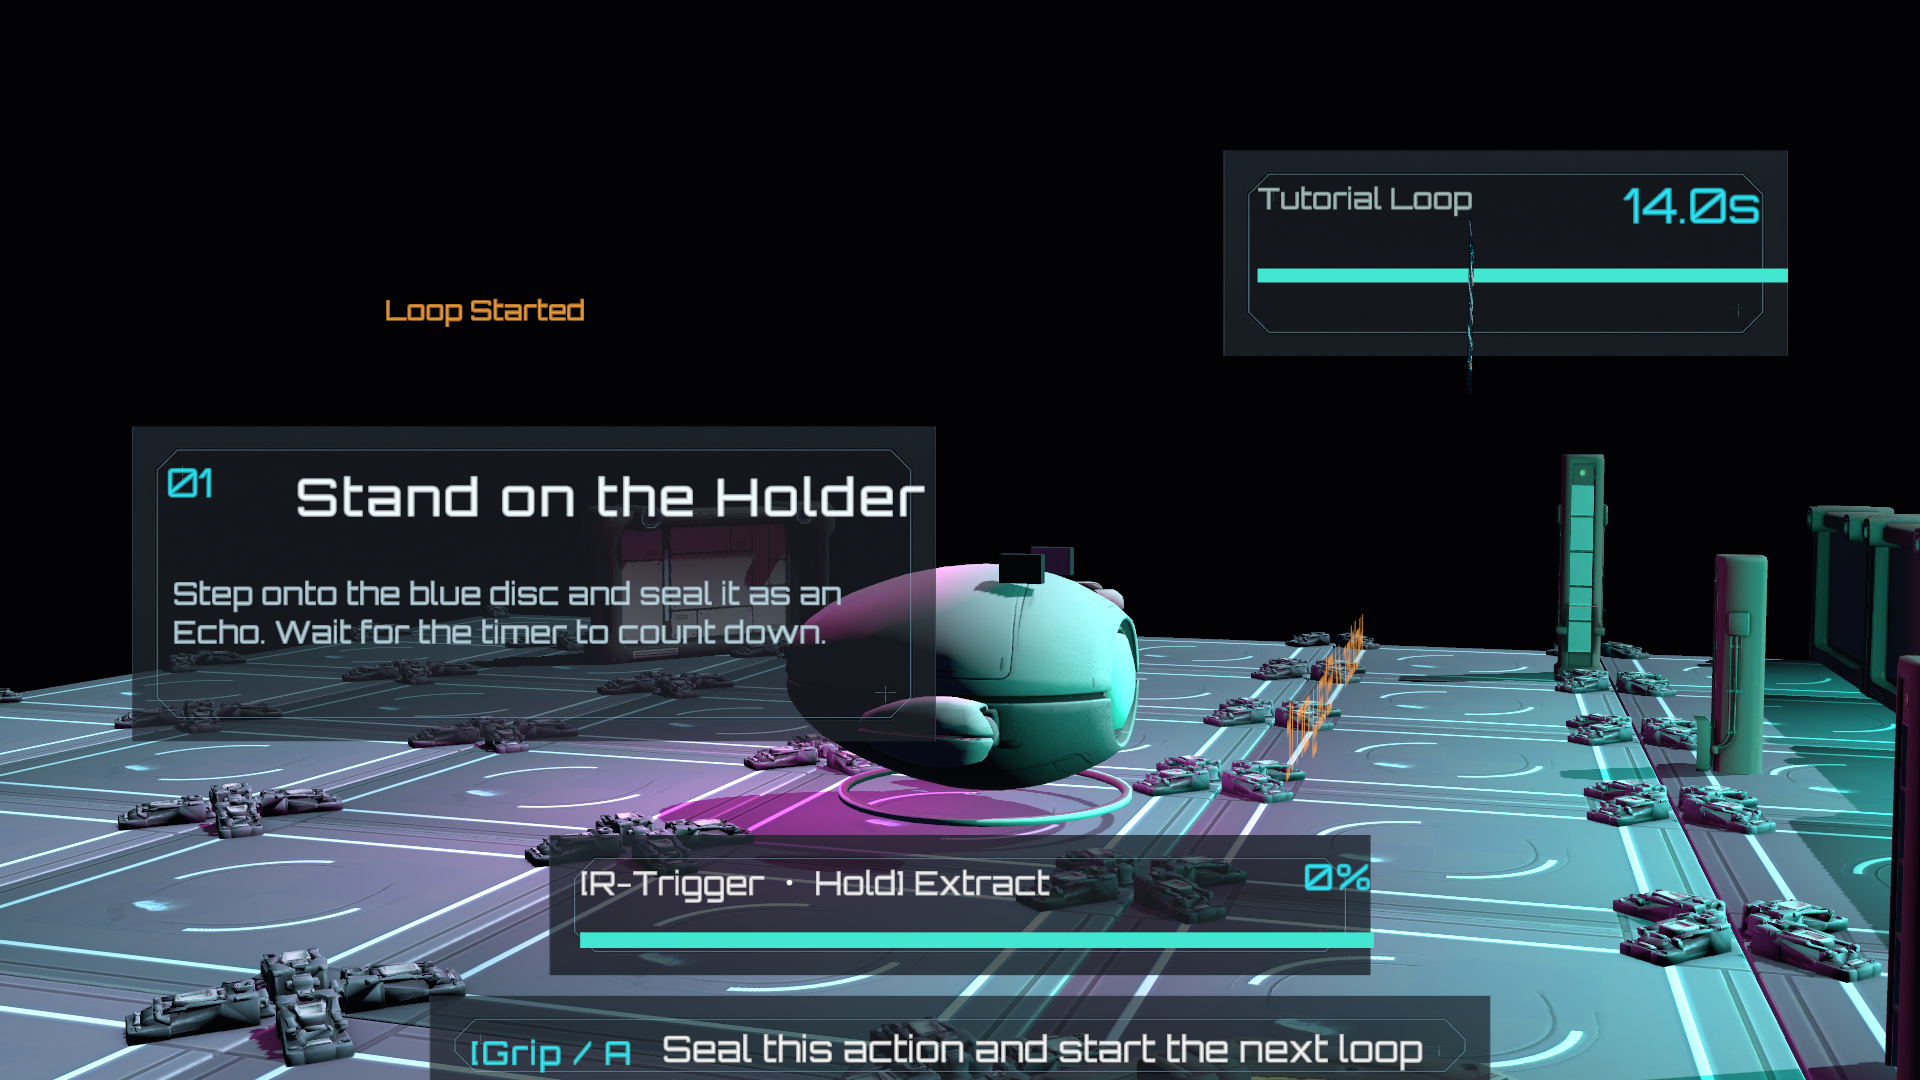
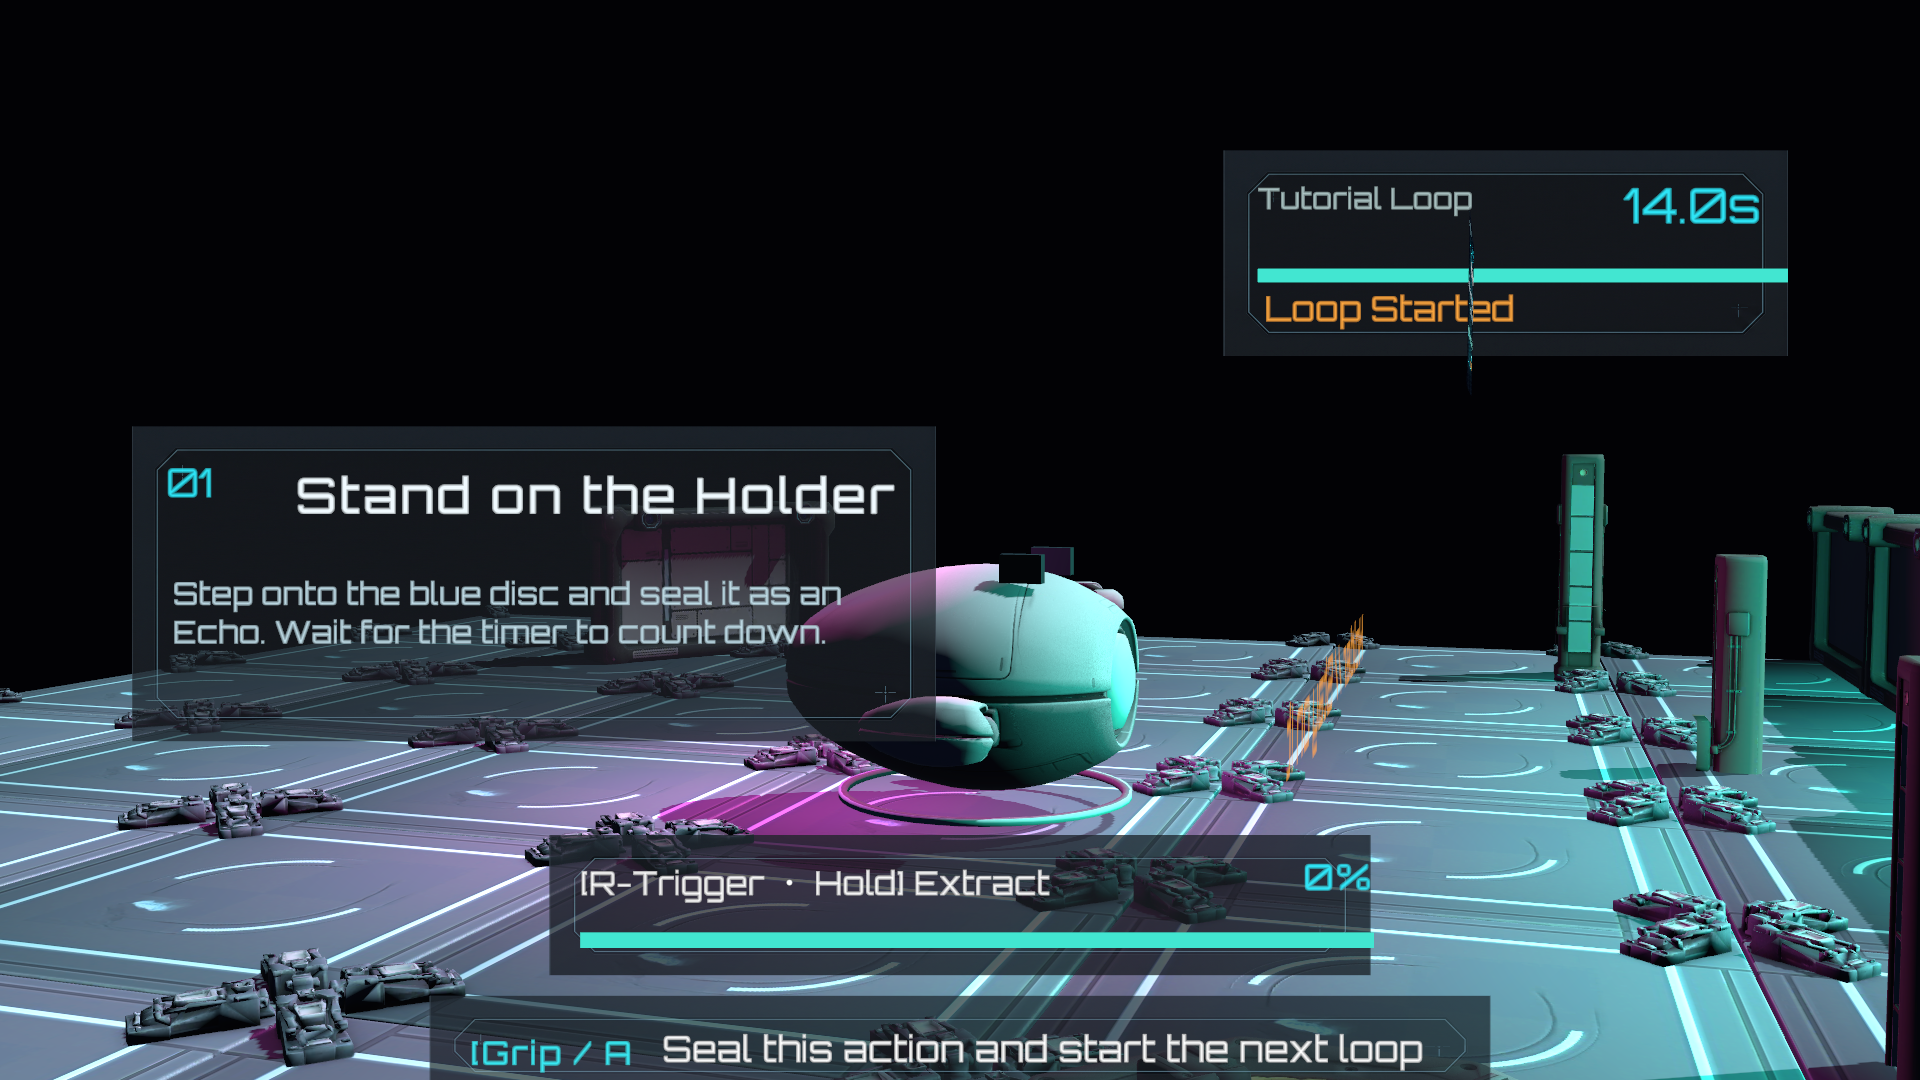
fix(en): v3 HUD 排版 r2 — Toast 挂到计时面板 / 数值 RT 收窄 / 标题 RT 收窄 / 非必要面板隐藏
- Toast: SetParent(timerPanel) + anchor 底部拉伸(0,0)→(1,0)，offsetMin=(24,14)/offsetMax=(-24,42)
  → 高 28px、左右 24px 内边距、距底 14px；字号 20；必须完整落在面板边框内
- timerValueText: 移除旧 margin（上版导致"22.0s"截断），改为 RT sizeDelta.x 减 16px(105→89px)
  + enableAutoSizing(22-28px)；新增 timer_88.png 极限截图验证"88.8s"完整显示
- objectiveTitleText: RT sizeDelta.x 减 20px(370→350)，右边缘 446px，距可视边框 22px
  + 保留 enableAutoSizing(18-30px)；最长标题"Wait for the Train to Dock"均能在 350px 内显示
- "Brand"/"Level Tabs"/"Loop"/"Echo Rail" 在保存场景时显式隐藏（Awake 在 batchmode 不运行）
  → 消除"Echo Rail"细竖线；DIAG-THIN 扫描确认无宽<4px/高>50px 的残余 Graphic
- 全部 QA PASS，截图: hud_collapsed / hud_expanded / gameplay_hud / timer_88

Changed region(s): [[0.1562, 0.4278, 0.5, 0.4889], [0.6562, 0.275, 0.8125, 0.3056], [0.1875, 0.275, 0.3125, 0.3056]]

diff --git a/Assets/QuantumEcho/Scripts/Editor/QuantumEchoV3IncrementalUpgrade.cs b/Assets/QuantumEcho/Scripts/Editor/QuantumEchoV3IncrementalUpgrade.cs
@@ -111,6 +111,7 @@ namespace QuantumEcho.Editor
             CaptureTitleShot(ScreenDir + "/title_pressed.png", idle: false, pressBtn: true);
             CaptureHUDShot(ScreenDir + "/hud_collapsed.png",   expanded: false);
             CaptureHUDShot(ScreenDir + "/hud_expanded.png",    expanded: true);
+            CaptureHUDShot(ScreenDir + "/timer_88.png",         expanded: false, timerValue: 88.8f, timerDuration: 99f);
             CaptureMainShot(ScreenDir + "/gameplay_hud.png");
 
             // ── 步骤 8: 改动后 QA ────────────────────────────────────────────
@@ -249,57 +250,112 @@ namespace QuantumEcho.Editor
             foreach (var lbl in labels) { if (orbitron != null) { lbl.font = orbitron; EditorUtility.SetDirty(lbl); } }
             Debug.Log($"[INC] QuantumHologramWorldLabel：{labels.Count} 个");
 
-            // ── HUD 排版修复（v3 UI 精修：解决溢出 / 叠字）
+            // ── HUD 排版修复（v3 UI 精修 r2：溢出 / 叠字 / 细竖线）
             var allHUDs = GetAllInScene<QuantumHUD>(scene);
             if (allHUDs.Count > 0)
             {
                 var hud = allHUDs[0];
-                // 1. 目标标题：启用自动缩放防止"Stand on the Holder"顶到右边框
+
+                // ── 先找计时面板（用于后面 Toast 挂载）
+                RectTransform timerPanelRT = null;
+                foreach (var root in scene.GetRootGameObjects())
+                    foreach (var tr in root.GetComponentsInChildren<Transform>(true))
+                        if (tr.name == "Timer" && tr.GetComponent<RectTransform>() is RectTransform trt
+                            && Mathf.Approximately(trt.sizeDelta.x, 330f))
+                        { timerPanelRT = trt; break; }
+
+                // ── 计时面板高度：98 → 120，为 Toast 腾出空间（幂等：已经是 120 则跳过）
+                if (timerPanelRT != null && Mathf.Approximately(timerPanelRT.sizeDelta.y, 98f))
+                {
+                    timerPanelRT.sizeDelta = new Vector2(330f, 120f);
+                    EditorUtility.SetDirty(timerPanelRT);
+                }
+
+                // ── Fix 3: 目标标题文本框右边缘内缩 20px，再启用自动缩放
                 if (hud.objectiveTitleText != null)
                 {
+                    var rt = hud.objectiveTitleText.rectTransform;
+                    // 原 sizeDelta.x=370 → 右边缘 466；内缩 20px → 右边缘 446，留 22px 内边距
+                    if (rt.sizeDelta.x > 354f)
+                        rt.sizeDelta = new Vector2(rt.sizeDelta.x - 20f, rt.sizeDelta.y);
                     hud.objectiveTitleText.enableAutoSizing = true;
                     hud.objectiveTitleText.fontSizeMin = 18f;
                     hud.objectiveTitleText.fontSizeMax = 30f;
                     EditorUtility.SetDirty(hud.objectiveTitleText);
+                    EditorUtility.SetDirty(rt);
                 }
-                // 2. 计时数值：右侧补 16px 内边距，"14.0s" 不贴边框
+
+                // ── Fix 2: 计时数值 — 去掉 margin，改为收窄 RectTransform 右边缘 16px，并启用自动缩放
                 if (hud.timerValueText != null)
                 {
-                    hud.timerValueText.margin = new Vector4(0f, 0f, 16f, 0f);
+                    var rt = hud.timerValueText.rectTransform;
+                    hud.timerValueText.margin = Vector4.zero;          // 移除旧 margin（上版误用）
+                    if (rt.sizeDelta.x > 73f)                          // 幂等：不重复缩减
+                        rt.sizeDelta = new Vector2(rt.sizeDelta.x - 16f, rt.sizeDelta.y);  // 105→89
+                    hud.timerValueText.enableAutoSizing = true;
+                    hud.timerValueText.fontSizeMin = 22f;
+                    hud.timerValueText.fontSizeMax = 28f;
                     EditorUtility.SetDirty(hud.timerValueText);
+                    EditorUtility.SetDirty(rt);
                 }
-                // 3. Toast（反馈文字）：移入计时面板内部，24px 左右内边距，字号缩小；默认隐藏
-                if (hud.toastText != null)
+
+                // ── Fix 1: Toast — 挂载到计时面板，锚点底部拉伸，左右 24px / 底部 14px / 高 28px / 字号 20
+                if (hud.toastText != null && timerPanelRT != null
+                    && hud.toastText.transform.parent != timerPanelRT.transform)
                 {
+                    hud.toastText.transform.SetParent(timerPanelRT, false);
                     var toastRT = hud.toastText.rectTransform;
-                    // 新位置：计时面板内，进度条下方；anchoredPosition 相对 canvas 左上角 anchor
-                    toastRT.anchoredPosition = new Vector2(176f, -109f);
-                    toastRT.sizeDelta        = new Vector2(282f, 24f);
-                    hud.toastText.fontSize   = 16f;
-                    hud.toastText.margin     = new Vector4(0f, 0f, 0f, 0f);
-                    hud.toastText.alignment  = TMPro.TextAlignmentOptions.Left;
-                    hud.toastText.gameObject.SetActive(false);   // 默认不可见
+                    toastRT.anchorMin = new Vector2(0f, 0f);
+                    toastRT.anchorMax = new Vector2(1f, 0f);
+                    toastRT.pivot     = new Vector2(0.5f, 0f);
+                    toastRT.offsetMin = new Vector2(24f, 14f);   // 左 24px, 距底 14px
+                    toastRT.offsetMax = new Vector2(-24f, 42f);  // 右 24px, 高度=42-14=28px
+                    hud.toastText.margin    = Vector4.zero;
+                    hud.toastText.fontSize  = 20f;
+                    hud.toastText.alignment = TMPro.TextAlignmentOptions.Left;
+                    hud.toastText.gameObject.SetActive(false);
                     EditorUtility.SetDirty(hud.toastText);
                     EditorUtility.SetDirty(toastRT);
                     EditorUtility.SetDirty(hud.toastText.gameObject);
                 }
-                // 4. 计时面板高度：98 → 120，为 Toast 腾出空间
-                foreach (var root in scene.GetRootGameObjects())
-                    foreach (var tr in root.GetComponentsInChildren<Transform>(true))
-                        if (tr.name == "Timer" && tr.GetComponent<RectTransform>() is RectTransform timerRT
-                            && Mathf.Approximately(timerRT.sizeDelta.x, 330f)
-                            && Mathf.Approximately(timerRT.sizeDelta.y, 98f))
-                        {
-                            timerRT.sizeDelta = new Vector2(330f, 120f);
-                            EditorUtility.SetDirty(timerRT);
-                        }
-                // 5. 结算面板：截图时 Awake() 不运行，需在保存场景前显式隐藏
+                else if (hud.toastText != null)
+                {
+                    // 如已挂载：仅确保字号和默认隐藏状态正确
+                    if (hud.toastText.fontSize < 19f)
+                    { hud.toastText.fontSize = 20f; EditorUtility.SetDirty(hud.toastText); }
+                    if (hud.toastText.gameObject.activeSelf)
+                    { hud.toastText.gameObject.SetActive(false); EditorUtility.SetDirty(hud.toastText.gameObject); }
+                }
+
+                // ── Fix 5: 结算面板（截图时 Awake 不运行）
                 if (hud.resultPanel != null)
                 {
                     hud.resultPanel.SetActive(false);
                     EditorUtility.SetDirty(hud.resultPanel);
                 }
-                Debug.Log("[INC] HUD 排版修复完成（标题自动缩放 / 计时内边距 / Toast 重定位 / 结算面板隐藏）");
+
+                // ── Fix 4: 隐藏 Awake() 才会隐藏的非必要面板（batchmode 不运行 Awake）
+                var awakePanels = new[] { "Brand", "Level Tabs", "Loop", "Echo Rail" };
+                foreach (var root in scene.GetRootGameObjects())
+                    foreach (var tr in root.GetComponentsInChildren<Transform>(true))
+                        if (tr.parent != null && System.Array.IndexOf(awakePanels, tr.name) >= 0
+                            && tr.gameObject.activeSelf)
+                        {
+                            tr.gameObject.SetActive(false);
+                            EditorUtility.SetDirty(tr.gameObject);
+                            Debug.Log($"[INC] 隐藏面板: {tr.name}");
+                        }
+
+                // 诊断：输出所有 宽<4px 且 高>50px 的 Graphic（帮助定位残余细竖线）
+                foreach (var root in scene.GetRootGameObjects())
+                    foreach (var g in root.GetComponentsInChildren<Graphic>(true))
+                    {
+                        var sz = g.rectTransform.rect.size;
+                        if (sz.x < 4f && sz.y > 50f)
+                            Debug.Log($"[DIAG-THIN] {g.gameObject.name} type={g.GetType().Name} w={sz.x:F1} h={sz.y:F1} active={g.gameObject.activeSelf}");
+                    }
+
+                Debug.Log("[INC] HUD 排版修复 r2 完成（标题 RT 收窄+自动缩放 / 计时 RT 收窄+自动缩放 / Toast 挂载到计时面板 / 非必要面板隐藏）");
             }
             else
             {
@@ -410,7 +466,7 @@ namespace QuantumEcho.Editor
         // HUD 截图（折叠/展开）
         // 关键：相机应在 HUD 正面（-forward 方向）
         // ────────────────────────────────────────────────────────────────────
-        static void CaptureHUDShot(string outPng, bool expanded)
+        static void CaptureHUDShot(string outPng, bool expanded, float timerValue = 14f, float timerDuration = 30f)
         {
             var scene = EditorSceneManager.OpenScene(MainScenePath, OpenSceneMode.Single);
             var orbitron = AssetDatabase.LoadAssetAtPath<TMP_FontAsset>(OrbitronPath);
@@ -448,7 +504,7 @@ namespace QuantumEcho.Editor
                 hud.SetObjective(0, "Stand on the Holder",
                     expanded ? "Step onto the blue disc and seal it as an Echo. Wait for the timer to count down." : "…");
                 hud.SetEchoCount(0, 4);
-                hud.SetTimer(14f, 30f);
+                hud.SetTimer(timerValue, timerDuration);
                 hud.SetPrompt("[Grip / A / X]", expanded ? "Seal this action and start the next loop" : "…");
 
                 // 展开态：显示进度面板；折叠态：隐藏
